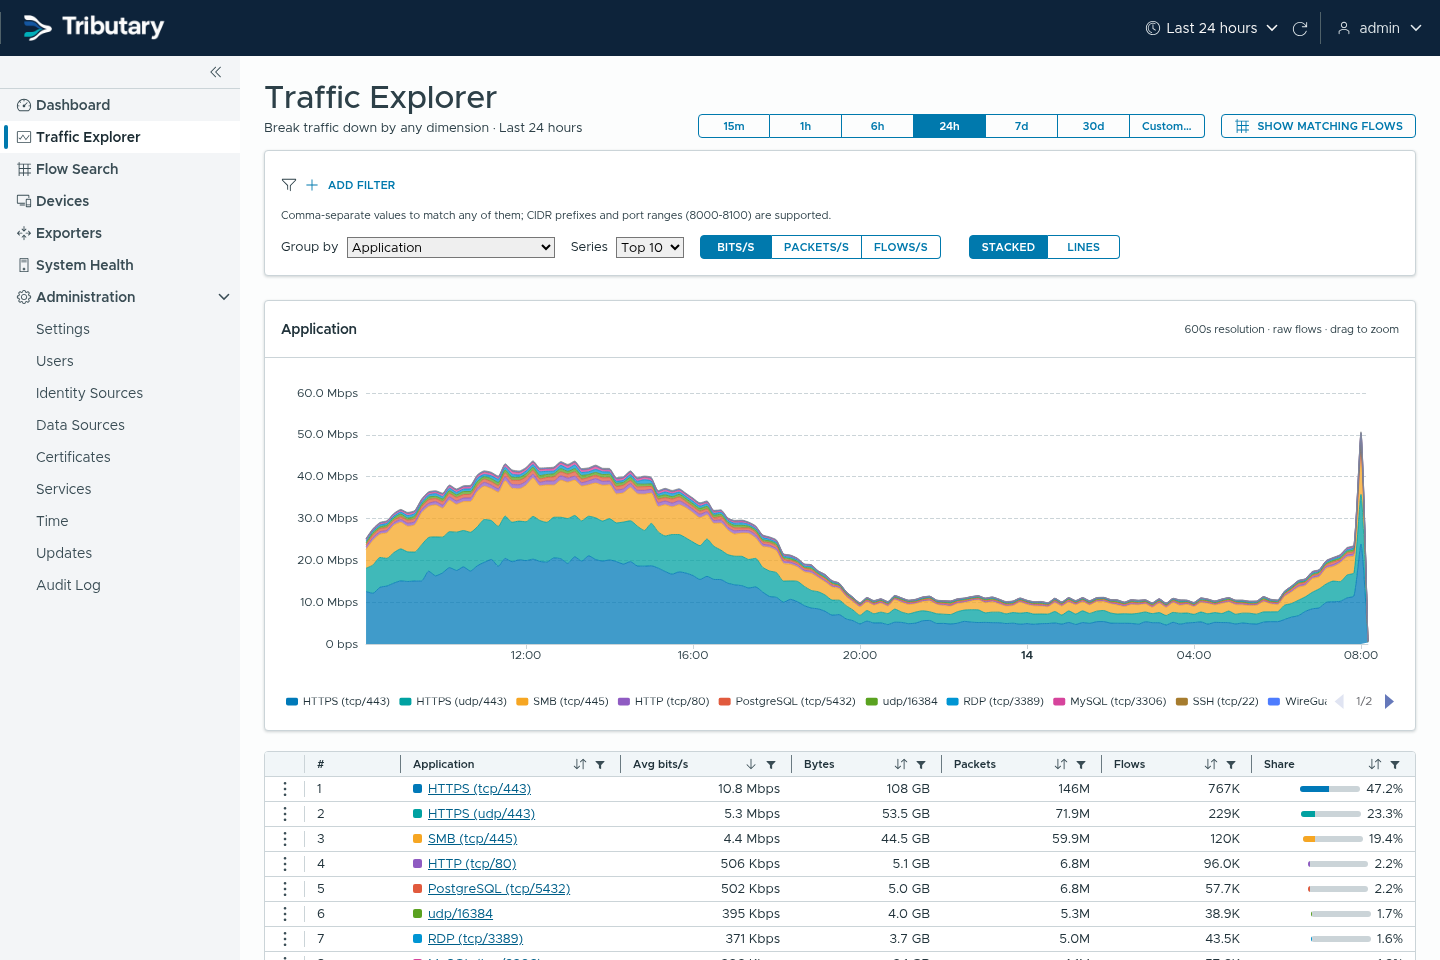
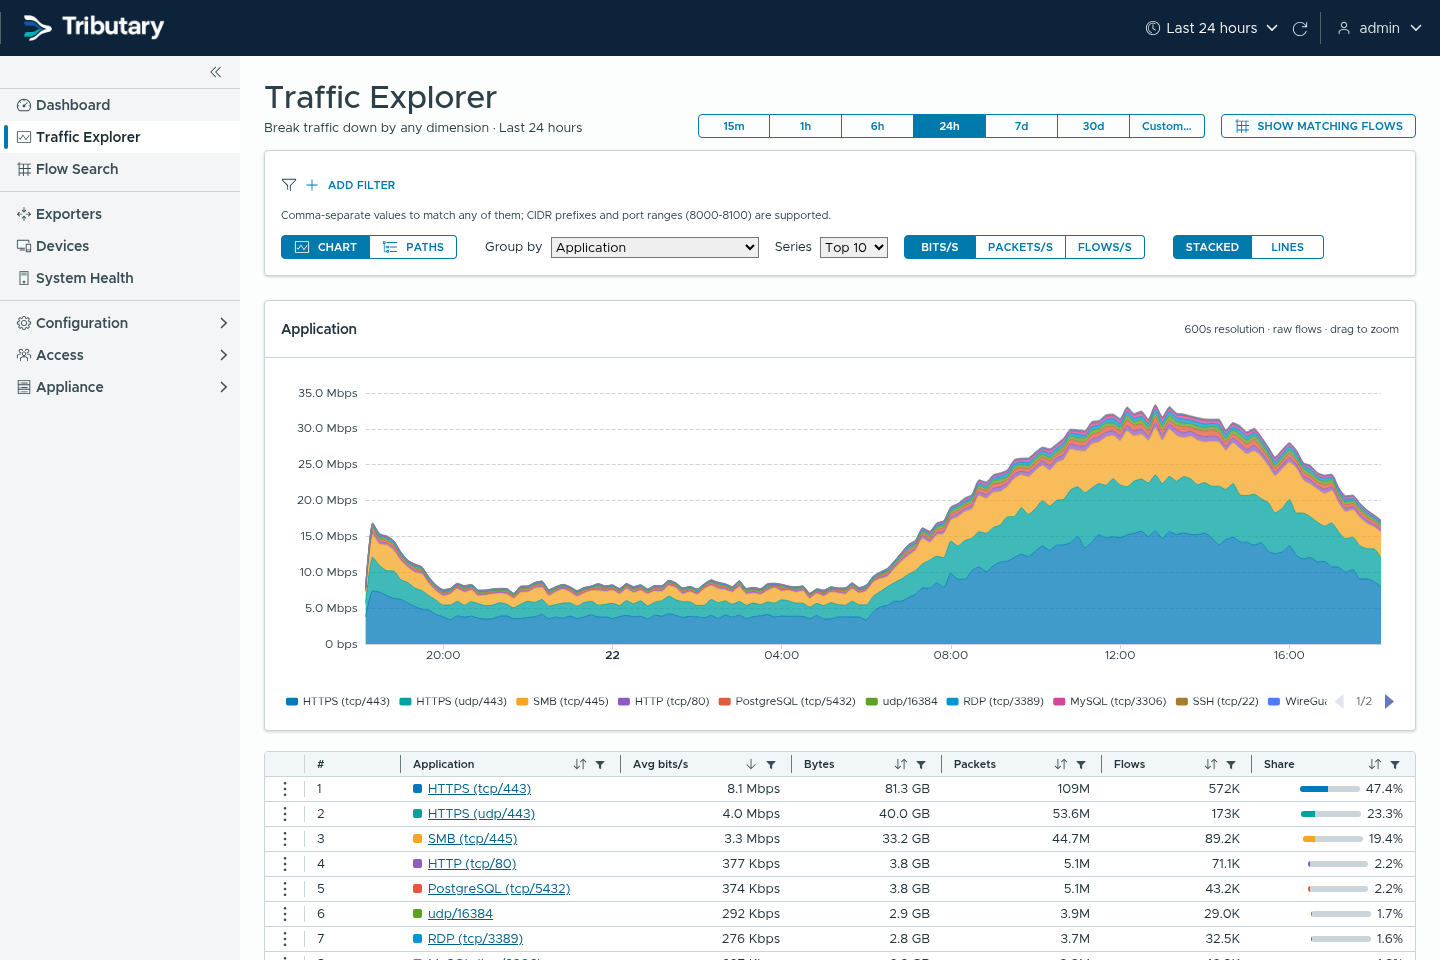
Retake the screenshots with the new menu
Same views, with Enrichment replacing Data Sources.

diff --git a/docs/SCREENSHOTS.md b/docs/SCREENSHOTS.md
@@ -8,5 +8,5 @@ Simulated traffic from `cmd/flowgen`.
 | ![Traffic Explorer](screenshots/explorer.png) Traffic Explorer | ![Flow Search](screenshots/flow-search.png) Flow Search |
 | ![Traffic paths](screenshots/paths.png) Traffic paths | ![Interface paths](screenshots/interface-paths.png) Interface paths |
 | ![Devices](screenshots/devices.png) Devices | ![Exporters](screenshots/exporters.png) Exporters |
-| ![Exporter detail](screenshots/exporter-detail.png) Exporter detail | ![Data Sources](screenshots/data-sources.png) Data sources |
+| ![Exporter detail](screenshots/exporter-detail.png) Exporter detail | ![Enrichment](screenshots/enrichment.png) Enrichment |
 | ![Sign in](screenshots/login.png) Sign in | |
